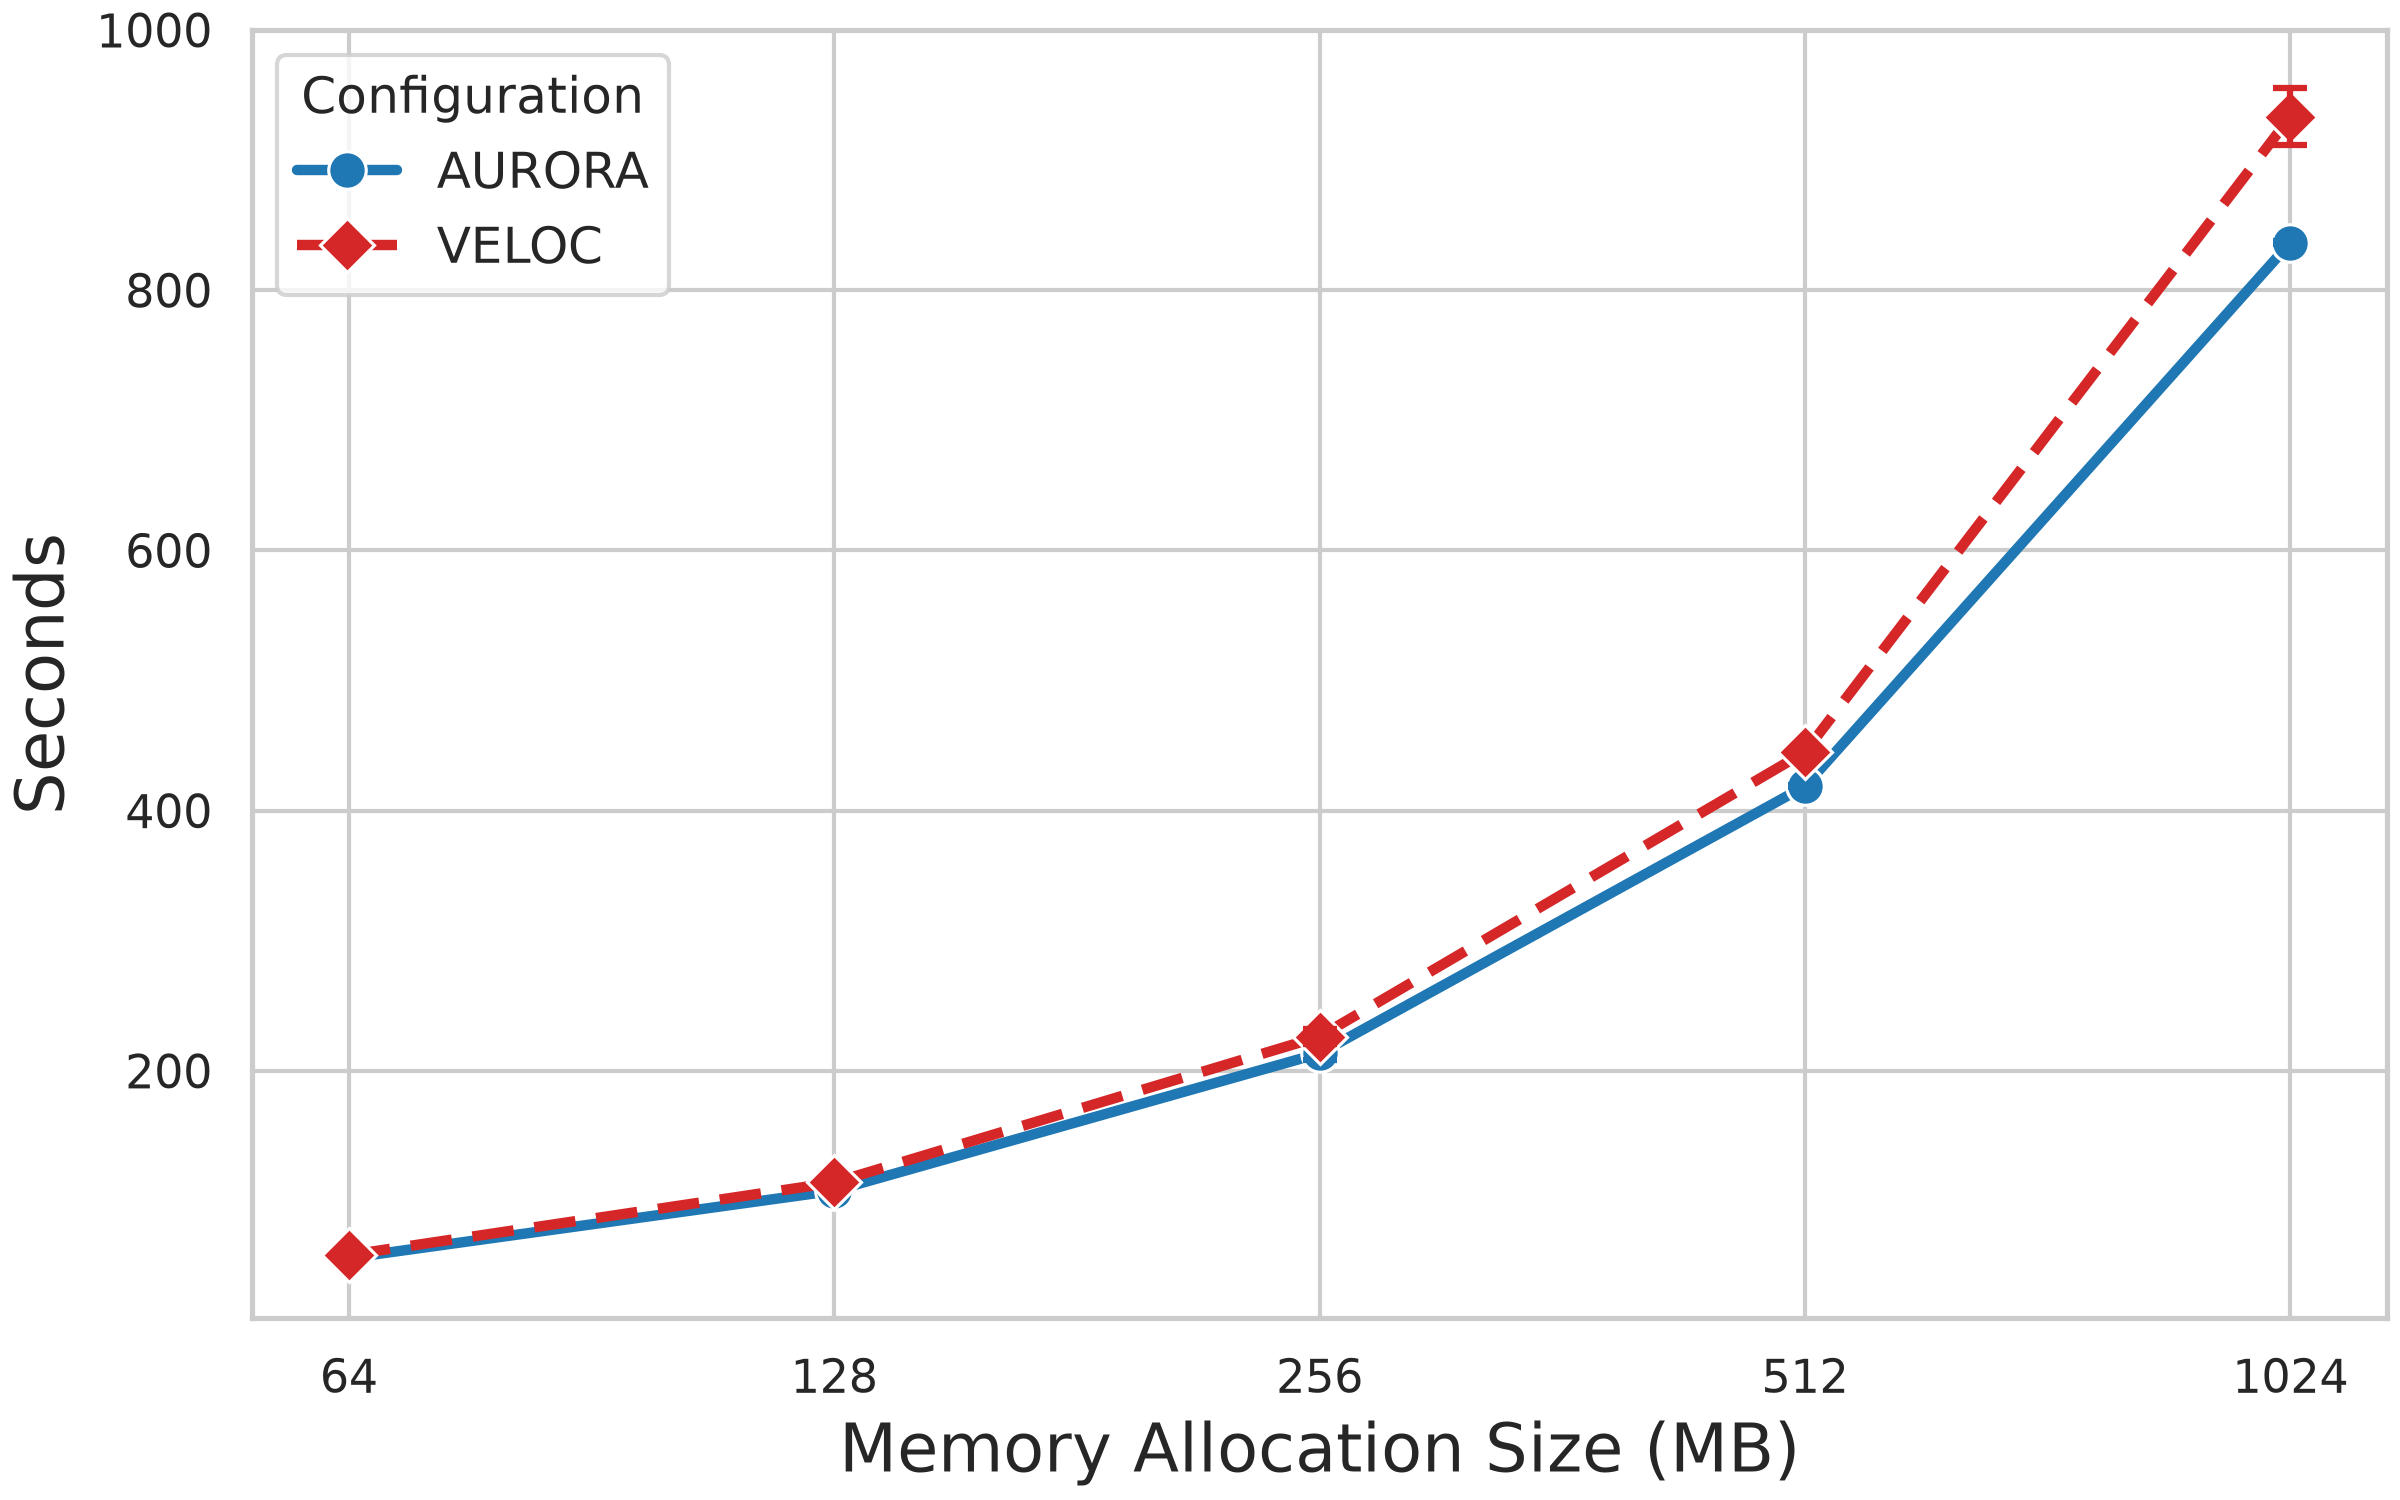
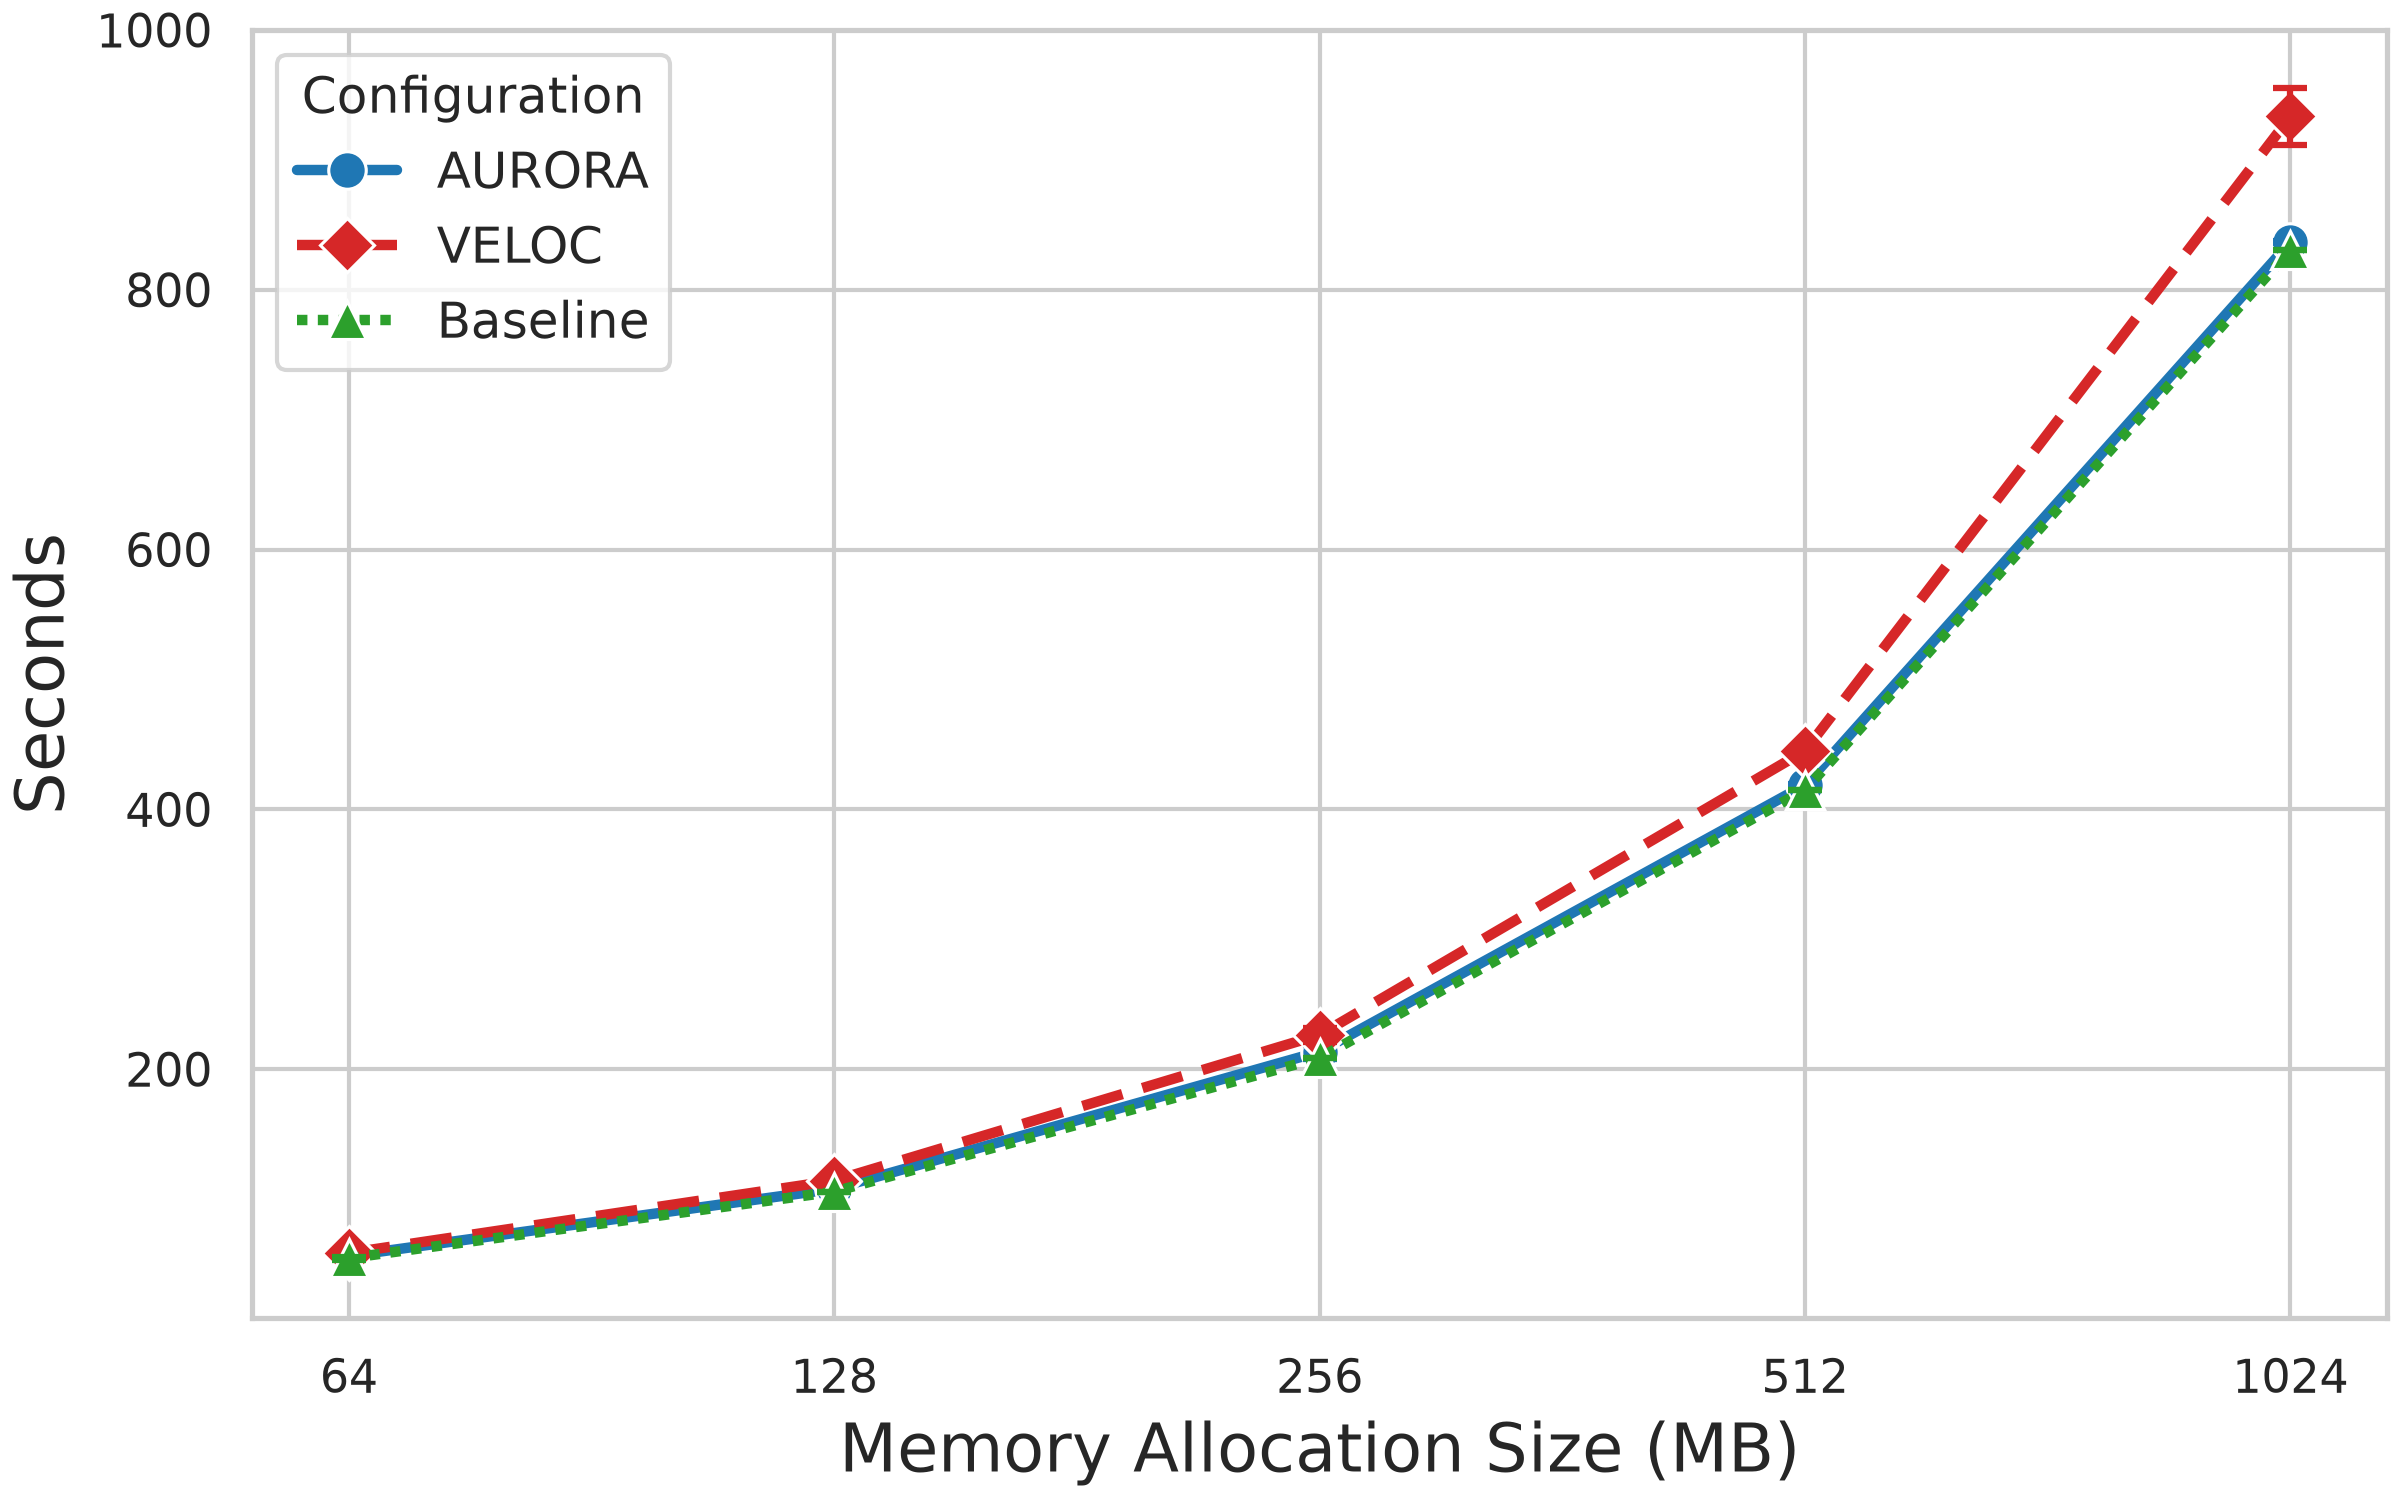
add orig times to plots

diff --git a/scripts/plotting/plot_heatdis_summary.py b/scripts/plotting/plot_heatdis_summary.py
@@ -15,6 +15,7 @@ OUTPUT_DIR = f"{RESULTS_DIR}/figures"
 INPUT_DATASETS = [
     {"path": f"{RESULTS_DIR}/heatdis_aurora_summary_times.csv", "label": "AURORA"},
     {"path": f"{RESULTS_DIR}/heatdis_veloc_summary_times.csv", "label": "VELOC"},
+    {"path": f"{RESULTS_DIR}/heatdis_orig_summary_times.csv", "label": "Baseline"},
 ]
 
 # 2. TARGET THREAD FILTERING:

diff --git a/scripts/collection/heatdis_summary.py b/scripts/collection/heatdis_summary.py
@@ -7,7 +7,7 @@ import pandas as pd
 # CONFIGURABLE VARIABLES
 # ==========================================
 VERSION = "0.0.3"
-TEST = "heatdis_aurora"
+TEST = "heatdis_orig"
 INPUT_LOG_DIR = f"./results/{VERSION}/{TEST}/"
 OUTPUT_CSV_PATH = f"./results/{VERSION}/{TEST}_summary_times.csv"
 # ==========================================
